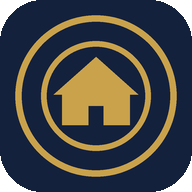
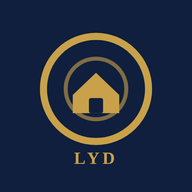
Add files via upload

diff --git a/index.html b/index.html
@@ -96,6 +96,10 @@ input::placeholder{color:var(--muted);opacity:.8}
 .ownform input,.ownform select,.ownform textarea{width:100%;box-sizing:border-box;height:44px;border-radius:10px;border:1px solid var(--line);padding:0 12px;font:inherit;background:transparent;color:inherit}
 .ownform textarea{height:80px;padding:10px 12px}
 .ownform .two{display:grid;grid-template-columns:1fr 1fr;gap:10px}
+.card.brand{border:1.5px solid var(--gold)}
+.brow{display:flex;gap:12px;align-items:center;margin-bottom:10px}
+.blogo{width:56px;height:56px;flex:none}.blogo.sm{width:30px;height:30px}
+.sub2{margin:12px 0 0;font-size:13px;opacity:.85}
 .rm{background:none;border:0;color:#c0392b;font:inherit;cursor:pointer;margin-top:6px}
 </style>
 </head>
@@ -242,7 +246,7 @@ input::placeholder{color:var(--muted);opacity:.8}
     var base=[
       {n:'Bayut',d:'منصة إعلانات عقارية بوكلاء مرخّصين، مع خريطة وسعر مقارن للمنطقة.',k:bt?'مفلتر بميزانيتك':'منصة عقارية',u:bayut,u2:bt?bayut0:'',ok:1},
       {n:'Property Finder',d:'إعلانات وكلاء ومطوّرين، مع الصور وخطط الدفع للمشاريع.',k:bt?'مفلتر بميزانيتك':'منصة عقارية',u:pf,u2:bt?pf0:'',ok:1},
-      {n:'Dubizzle',d:'إعلانات مبوّبة، فيها عروض من المالك مباشرة وأراضٍ ومبانٍ كاملة.',k:'إعلانات مبوّبة',u:duby,u2:filtered?duby2:'',ok:0},
+      {brand:1,n:'LYD Real Estate'},
       {n:'Facebook',d:'منشورات الوكلاء والملاك العلنية في الصفحات والمجموعات.',k:'بحث موجّه في Google',u:fb,ok:0},
       {n:'Facebook Marketplace',d:(rent?'عقارات للإيجار':'عقارات للبيع')+' في سوق فيسبوك. يتطلب تسجيل دخولك.',k:'يتطلب حسابًا',u:mkt,ok:0},
       {n:'Instagram',d:'منشورات الوسطاء تحت وسم '+(rent?'ايجارات عجمان.':'عقارات عجمان.'),k:'وسم',u:ig,ok:0},
@@ -258,8 +262,10 @@ input::placeholder{color:var(--muted);opacity:.8}
   }
   function loadCustom(){try{var v=JSON.parse(localStorage.getItem('ajman_custom')||'[]');return Array.isArray(v)?v:[];}catch(e){return [];}}
   function saveCustom(a){try{localStorage.setItem('ajman_custom',JSON.stringify(a));}catch(e){}}
+  var BRAND_CARD='<div class="card brand"><div class="brow"><svg class="blogo" viewBox="85 5 130 130" aria-hidden="true"><rect x="85" y="5" width="130" height="130" rx="30" fill="#0f1f3d"/><path d="M110 88 L150 52 L190 88" fill="none" stroke="#c9a14a" stroke-width="9" stroke-linecap="round" stroke-linejoin="round"/><path d="M122 84 V112 H178 V84" fill="none" stroke="#c9a14a" stroke-width="9" stroke-linecap="round" stroke-linejoin="round"/><rect x="142" y="94" width="16" height="18" rx="3" fill="#c9a14a"/></svg><div><h3 dir="ltr" style="margin:0">LYD Real Estate</h3><p style="margin:4px 0 0">وسيط عقاري في عجمان · عروض مباشرة من المُلّاك</p></div></div><a class="go" href="#h-o" id="brandGo">أريد عرض عقاري</a><div class="brow sub2"><svg class="blogo sm" viewBox="85 5 130 130" aria-hidden="true"><rect x="85" y="5" width="130" height="130" rx="30" fill="#c9a14a"/><rect x="112" y="32" width="76" height="76" rx="10" fill="none" stroke="#0f1f3d" stroke-width="8"/><rect x="130" y="50" width="40" height="40" rx="5" fill="#0f1f3d"/><g stroke="#0f1f3d" stroke-width="6" stroke-linecap="round"><path d="M125 22v10M150 22v10M175 22v10M125 108v10M150 108v10M175 108v10M102 55h10M102 85h10M188 55h10M188 85h10"/></g></svg><span dir="ltr">LYD Digital</span><span>· تطبيقي: رادار صفقات عجمان</span></div></div>';
   function renderPlatforms(){
     $('platforms').innerHTML=links().map(function(p){
+      if(p.brand)return BRAND_CARD;
       return '<div class="card"><span class="tag'+(p.ok?' ok':'')+'">'+esc(p.k)+'</span><h3 dir="auto">'+esc(p.n)+'</h3><p>'+esc(p.d)+
         '</p><a class="go" href="'+esc(p.u)+'" target="_blank" rel="noopener noreferrer">فتح النتائج</a>'+
         (p.u2?'<a class="go alt" href="'+esc(p.u2)+'" target="_blank" rel="noopener noreferrer">'+(p.n==='Dubizzle'?'بحث عن إعلانات مماثلة (Google)':'بدون ميزانية (كل الأسعار)')+'</a>':'')+
@@ -331,6 +337,7 @@ input::placeholder{color:var(--muted);opacity:.8}
     $('cName').value='';$('cUrl').value='';$('addForm').classList.remove('open');renderPlatforms();
   });
   $('platforms').addEventListener('click',function(e){
+    if(e.target.id==='brandGo'){$('ownForm').classList.add('open');}
     var r=e.target.getAttribute&&e.target.getAttribute('data-rm');
     if(r===null||r===undefined)return;
     var a=loadCustom();a.splice(+r,1);saveCustom(a);renderPlatforms();

diff --git a/sw.js b/sw.js
@@ -1,4 +1,4 @@
-var CACHE = 'ajman-radar-v6';
+var CACHE = 'ajman-radar-v7';
 var SHELL = ['./', './index.html', './manifest.webmanifest', './icon-192.png', './icon-512.png', './apple-touch-icon.png'];
 
 self.addEventListener('install', function (e) {
